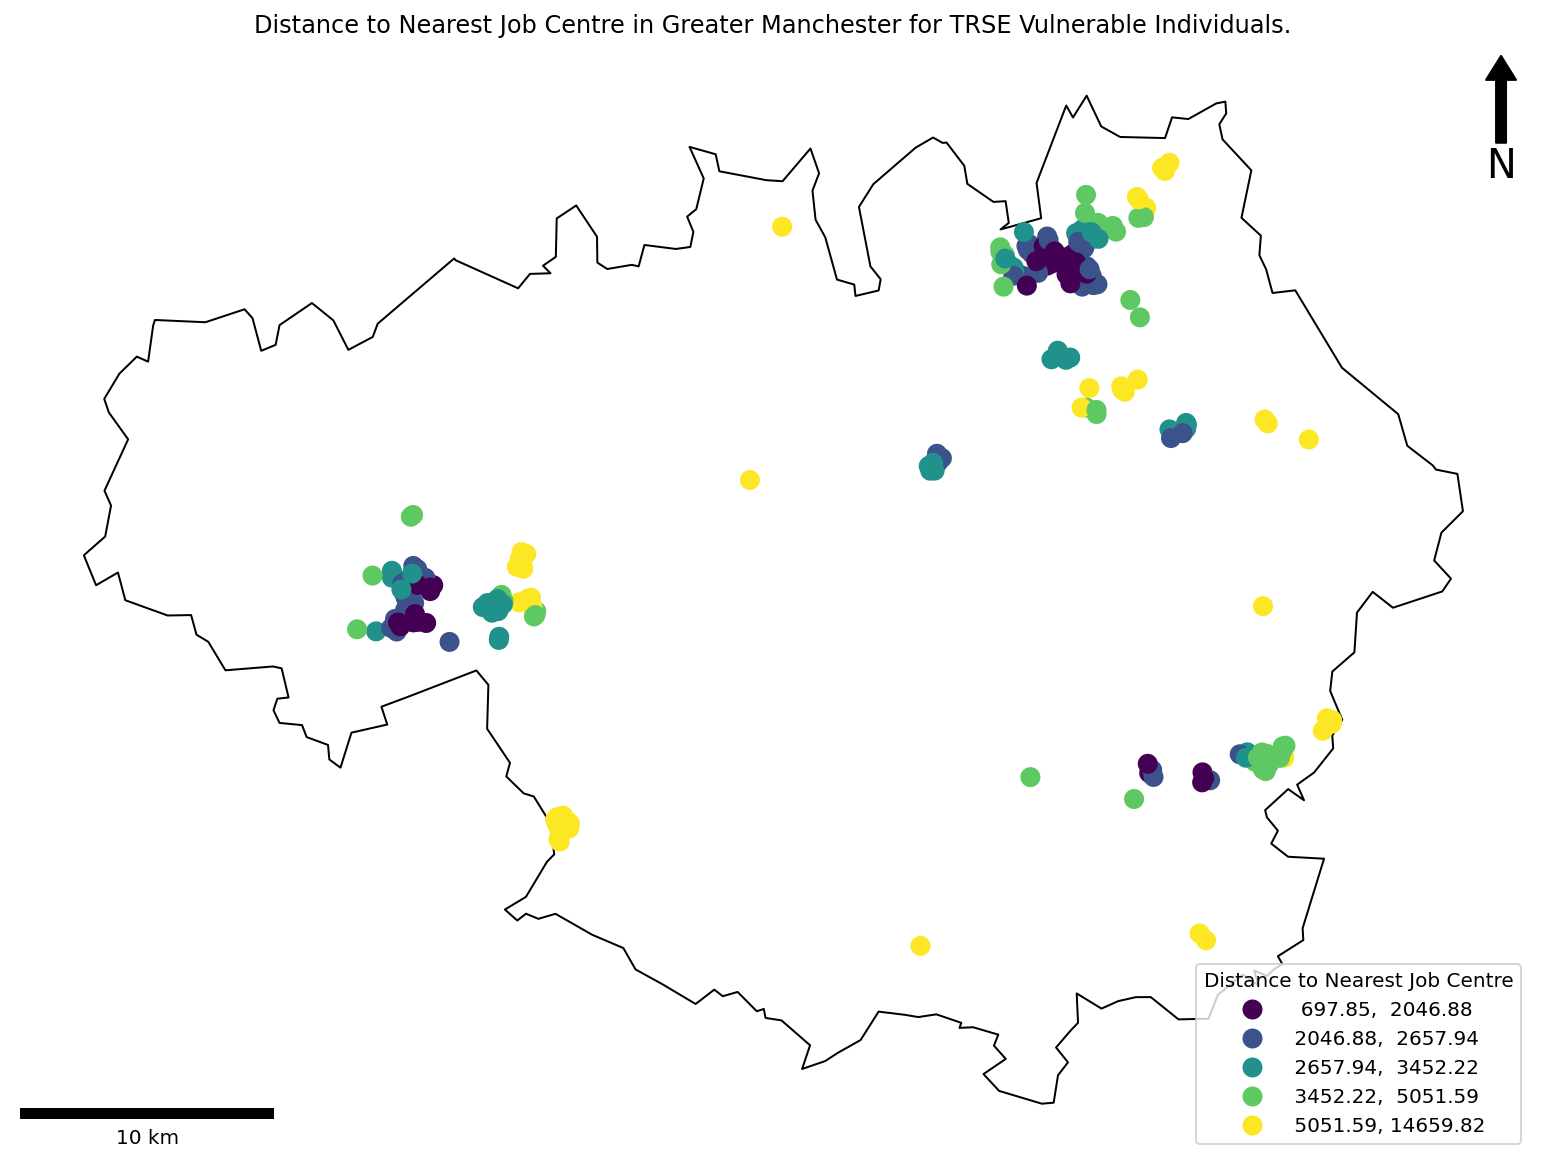
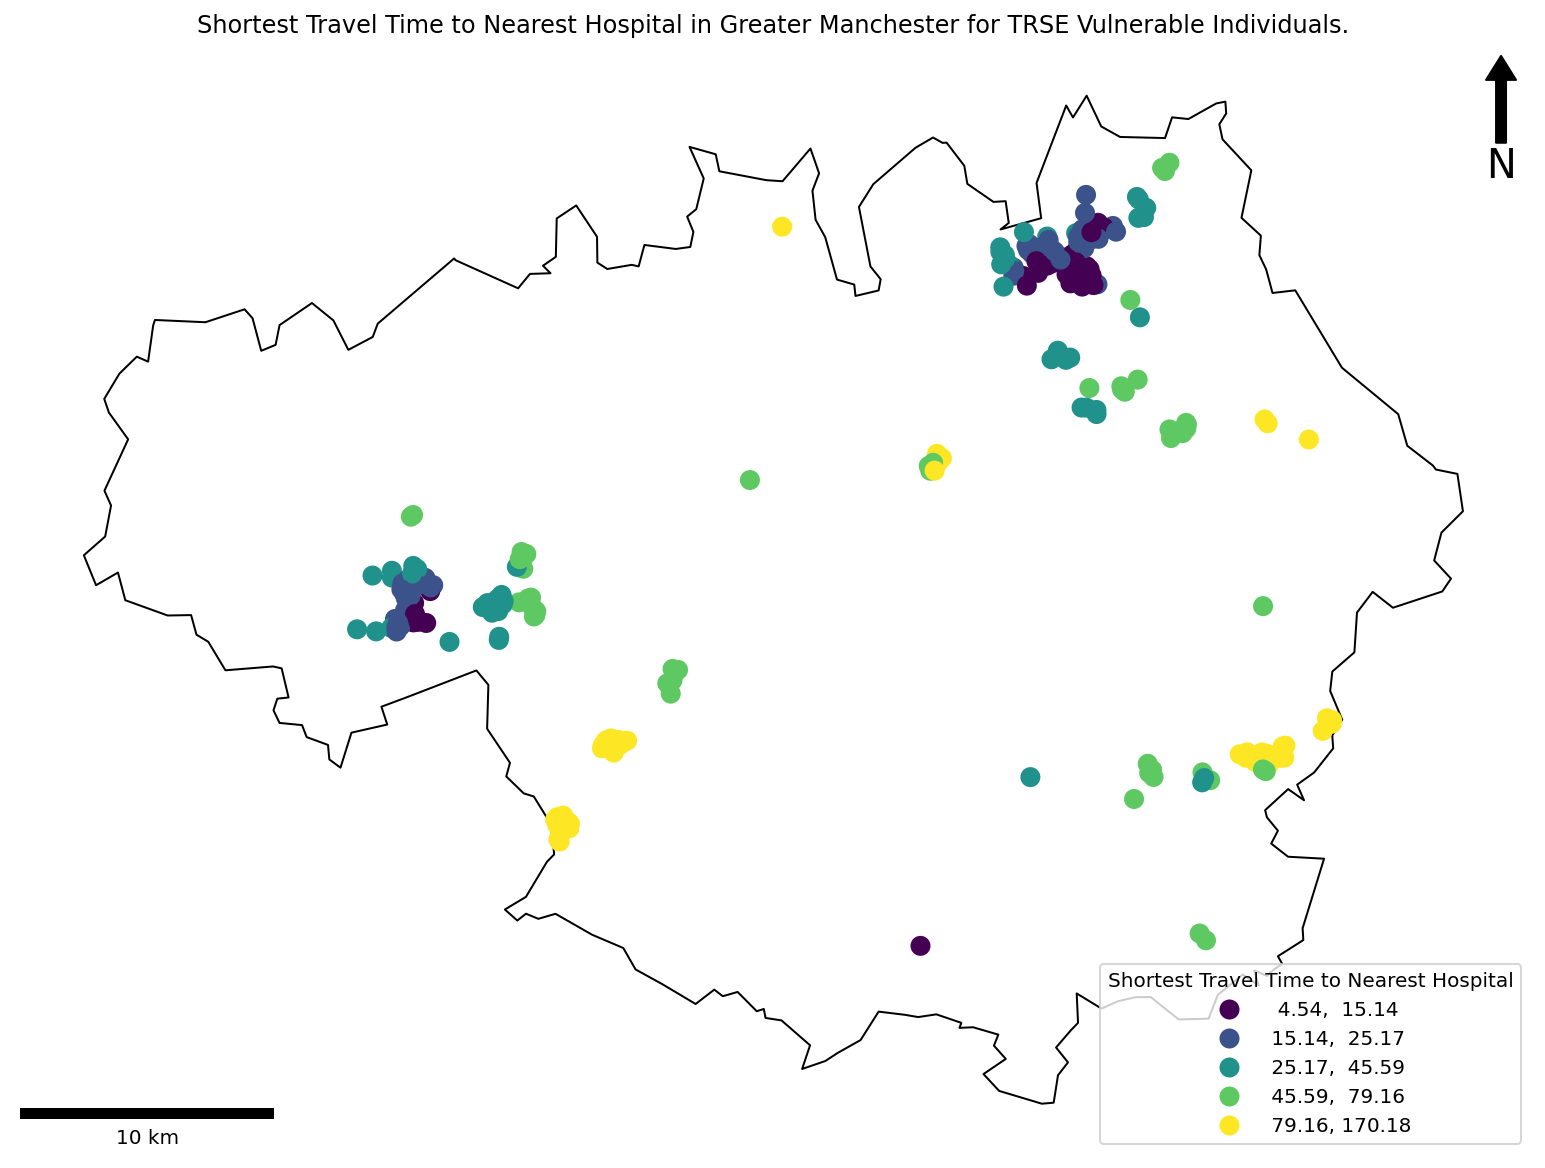
add speeds and travel time instead of distances

diff --git a/hospitals_walking.py b/hospitals_walking.py
@@ -253,6 +253,18 @@ with open('walking_graph.pkl', 'rb') as input:
 print(f"graph loaded in: {perf_counter() - start_time} seconds")
 
 
+# CREATE AVERAGE WALKING SPEED
+
+# set variable for average walking speed
+walk_kph = 4.8
+
+# create an average walking speed
+metres_per_second = walk_kph * 1000 / 3600
+
+# add travel time (seconds) to each edge
+for x, y, z, data in walking_graph.edges(keys = True, data = True):
+    data["travel_time"] = data["length"] / metres_per_second
+
 # SPATIAL INDEX (GRAPH NODES)
 
 # create a list of the nodes
@@ -279,7 +291,7 @@ start_time_astar = perf_counter()
 print(f"starting astar..")
 
 # create an empty list
-distances = []
+travel_time_list = []
 
 # for each population point
 for id, pop in worst_pop_points.iterrows():
@@ -307,7 +319,7 @@ for id, pop in worst_pop_points.iterrows():
        	shortest_path = astar_path(walking_graph, from_node, to_node, ellipsoidal_distance)
         
         # create a variable to store the length of the network
-        path_distance = 0
+        path_time = 0
         
         # loop through the edges in the shortest path
         for edge_start, edge_end in zip(shortest_path[:-1], shortest_path[1:]):
@@ -316,33 +328,36 @@ for id, pop in worst_pop_points.iterrows():
             edge_data = walking_graph.get_edge_data(edge_start, edge_end)
             
             # choose the shortest parallel edge if multiple edges exist
-            path_distance += min(attr["length"] for attr in edge_data.values())
+            path_time += min(attr["travel_time"] for attr in edge_data.values())
             
-        # append the distances list with the length of the network
-        distances.append(path_distance)
+        # convert path_time to minutes
+        path_time_min = path_time / 60
+        
+        # append the travel_time_list list with the length of the network
+        travel_time_list.append(path_time_min)
         
     # catch exception for no path available
     except NodeNotFound:
-        distances.append(None)
+        travel_time_list.append(None)
         continue
  
     # catch exception for no path available
     except NetworkXNoPath:
-        distances.append(None)
+        travel_time_list.append(None)
         continue
     
 # add network to the original dataframe
-worst_pop_points["hospital_walking_astar"] = distances
+worst_pop_points["hospital_walking_astar"] = travel_time_list
 
 print(f"network calculated in: {perf_counter() - start_time_astar} seconds")
 
 # calculate mean
-mean = (sum(distances)) / (len(distances))
+mean = (sum(travel_time_list)) / (len(travel_time_list))
 
 #report simple statistics
-print(f"Minimum distance to a hospital from TRSE vulnerable areas: {min(distances):,.0f}m.")
-print(f"Mean distance to a hospital from TRSE vulnerable areas: {mean:,.0f}m.")
-print(f"Maximum distance to a hospital from TRSE vulnerable areas: {max(distances):,.0f}m.")
+print(f"Minimum travel time to a hospital from TRSE vulnerable areas: {min(travel_time_list):,.0f} mins.")
+print(f"Mean travel time to a hospital from TRSE vulnerable areas: {mean:,.0f} mins.")
+print(f"Maximum travel time to a hospital from TRSE vulnerable areas: {max(travel_time_list):,.0f} mins.")
 
 
 # PLOTTING MAP
@@ -361,7 +376,7 @@ fig, my_ax = subplots(1, 1, figsize=(16, 10))
 my_ax.axis('off')
 
 # add title
-title("Distance to Nearest Hospital in Greater Manchester for TRSE Vulnerable Individuals.")
+title("Shortest Travel Time to Nearest Hospital in Greater Manchester for TRSE Vulnerable Individuals.")
 
 # add the district boundary
 gm_boundary_plot.plot(
@@ -371,7 +386,7 @@ gm_boundary_plot.plot(
 	edgecolor = 'black',
     )
 
-# plot the locations, coloured by distance to hospitals
+# plot the locations, coloured by travel time to hospitals
 worst_pop_points_plot.plot(
     ax = my_ax,
     column = 'hospital_walking_astar',
@@ -382,11 +397,11 @@ worst_pop_points_plot.plot(
     legend = 'True',
     legend_kwds = {
         'loc': 'lower right',
-        'title': 'Distance to Nearest Hospital'
+        'title': 'Shortest Travel Time to Nearest Hospital'
         }
     )
 
-# plot the locations, coloured by distance to hospitals
+# plot the locations, coloured by travel time to hospitals
 hospital_points_plot.plot(
     ax = my_ax,
     linewidth = 0,

diff --git a/hospitals_driving.py b/hospitals_driving.py
@@ -16,6 +16,8 @@ from heapq import heappush, heappop
 from shapely import STRtree
 from matplotlib_scalebar.scalebar import ScaleBar
 from matplotlib.pyplot import subplots, savefig, title
+from numpy import mean
+
 
 # FUNCTIONS
 
@@ -253,6 +255,15 @@ with open('driving_graph.pkl', 'rb') as input:
 print(f"graph loaded in: {perf_counter() - start_time} seconds")
 
 
+# GRAPH SPEEDS
+
+# calculate edge speeds to each edge to work out the shortest time
+driving_graph = osm.routing.add_edge_speeds(driving_graph, hwy_speeds = None, fallback = None, agg= mean)
+
+# create a graph with the travel times on each edge to work out the shortest time
+driving_graph = osm.routing.add_edge_travel_times(driving_graph)
+
+
 # SPATIAL INDEX (GRAPH NODES)
 
 # create a list of the nodes
@@ -279,7 +290,7 @@ start_time_astar = perf_counter()
 print("starting astar..")
 
 # create an empty list
-distances = []
+travel_time_list = []
 
 # for each population point
 for id, pop in worst_pop_points.iterrows():
@@ -306,8 +317,8 @@ for id, pop in worst_pop_points.iterrows():
        	# calculate the shortest path across the network
        	shortest_path = astar_path(driving_graph, from_node, to_node, ellipsoidal_distance)
         
-        # create a variable to store the length of the network
-        path_distance = 0
+        # create a variable to store the total time of the network (in seconds)
+        path_time = 0
         
         # loop through the edges in the shortest path
         for edge_start, edge_end in zip(shortest_path[:-1], shortest_path[1:]):
@@ -316,33 +327,36 @@ for id, pop in worst_pop_points.iterrows():
             edge_data = driving_graph.get_edge_data(edge_start, edge_end)
             
             # choose the shortest parallel edge if multiple edges exist
-            path_distance += min(attr["length"] for attr in edge_data.values())
-            
+            path_time += min(attr["travel_time"] for attr in edge_data.values())
+        
+        # convert seconds to minutes
+        path_time_min = path_time / 60
+        
         # append the distances list with the length of the network
-        distances.append(path_distance)
+        travel_time_list.append(path_time_min)
         
     # catch exception for no path available
     except NodeNotFound:
-        distances.append(None)
+        travel_time_list.append(None)
         continue
  
     # catch exception for no path available
     except NetworkXNoPath:
-        distances.append(None)
+        travel_time_list.append(None)
         continue
     
 # add network to the original dataframe
-worst_pop_points["hospital_driving_astar"] = distances
+worst_pop_points["hospital_driving_astar"] = travel_time_list
 
 print("network calculated in: {perf_counter() - start_time_astar} seconds")
 
 # calculate mean
-mean = (sum(distances)) / (len(distances))
+mean = (sum(travel_time_list)) / (len(travel_time_list))
 
 #report simple statistics
-print(f"Minimum distance to a hospital from TRSE vulnerable areas: {min(distances):,.0f}m.")
-print(f"Mean distance to a hospital from TRSE vulnerable areas: {mean:,.0f}m.")
-print(f"Maximum distance to a hospital from TRSE vulnerable areas: {max(distances):,.0f}m.")
+print(f"Minimum travel time to a hospital from TRSE vulnerable areas: {min(travel_time_list):,.0f} mins.")
+print(f"Mean travel time to a hospital from TRSE vulnerable areas: {mean:,.0f} mins.")
+print(f"Maximum travel time to a hospital from TRSE vulnerable areas: {max(travel_time_list):,.0f} mins.")
 
 
 # PLOTTING MAP
@@ -361,7 +375,7 @@ fig, my_ax = subplots(1, 1, figsize=(16, 10))
 my_ax.axis('off')
 
 # add title
-title("Distance to Nearest Hospital in Greater Manchester for TRSE Vulnerable Individuals.")
+title("Shortest Travel Time to Nearest Hospital in Greater Manchester for TRSE Vulnerable Individuals.")
 
 # add the district boundary
 gm_boundary_plot.plot(
@@ -382,7 +396,7 @@ worst_pop_points_plot.plot(
     legend = 'True',
     legend_kwds = {
         'loc': 'lower right',
-        'title': 'Distance to Nearest Hospital'
+        'title': 'Shortest Travel Time to Nearest Hospital'
         }
     )
 
